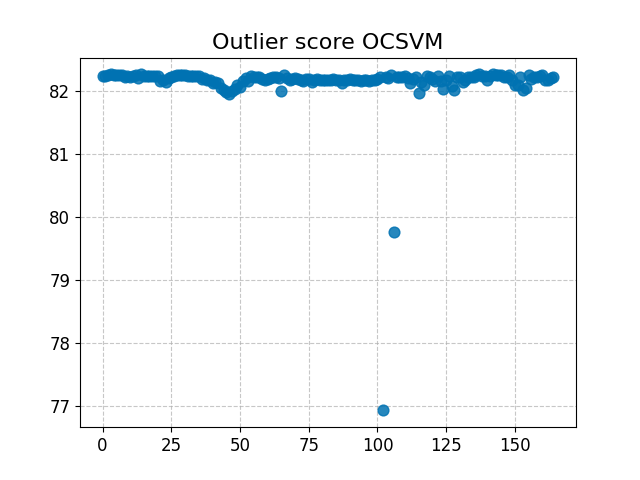
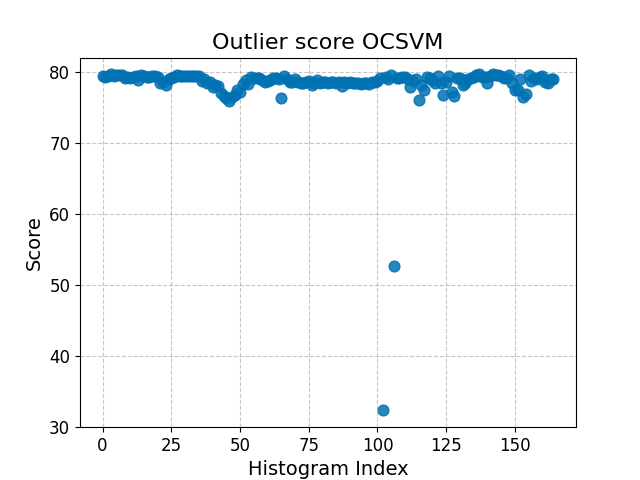
plots, debugs

diff --git a/kNN_approach/outliers_sklearn_knn.py b/kNN_approach/outliers_sklearn_knn.py
@@ -19,7 +19,7 @@ import plotting_styles as style
 #from ready_proj_data import norm_data_2d as norm_data
 #from ready_data import get_artifficial_dataset   # used for testing - call with no params a function to create dataset with 2 fake cols
 
-neigh = NearestNeighbors(n_neighbors=len(norm_data)) 
+neigh = NearestNeighbors(n_neighbors=len(norm_data))
 #neigh = NearestNeighbors(n_neighbors=len(norm_data)) 
 neigh.fit(norm_data)
 
@@ -45,10 +45,12 @@ if __name__ == '__main__':
     style.apply_global_style()
     plt.scatter(range(len(deviations)), deviations, **style.scatter_style)
     #plt.axhline(y=0.4, color='seagreen', linestyle='--', linewidth=1.95)
-    plt.title("Calculated deviations")
+    plt.title(f"Calculated deviations")
     plt.xlabel("Histogram index")
     plt.ylabel("Deviation")
     plt.show()
+    highest_devs = sorted(dev_dict:=enumerate(deviations), key=lambda deviation: deviation[1], reverse=False)[-5:]
+    print(highest_devs[::-1])
     exit()
 
     # following code plots outlier count per k parameter

diff --git a/less-important/OCSVM_outs.py b/less-important/OCSVM_outs.py
@@ -16,19 +16,24 @@ from ready_data import norm_data
 def idxs(iterable):
     return [i for i in range(len(iterable))]
 
-svm = OneClassSVM(gamma="auto").fit(norm_data)
+svm = OneClassSVM().fit(norm_data)
 svm.predict(norm_data)
 out_measure = svm.score_samples(norm_data)
 dec = svm.decision_function(norm_data)
 apply_global_style()
-plt.plot(idxs(dec), dec)
+plt.plot(range(len(dec)), dec)
 plt.title("Decision function")
 plt.show()
 
 plt.title("Outlier score OCSVM")
 plt.scatter(range(len(out_measure)), out_measure, **style.scatter_style)
 style.apply_global_style()
+plt.xlabel("Histogram Index")
+plt.ylabel("Score")
 plt.show()
+print(max(out_measure))
+highest_devs = sorted(dev_dict:=enumerate(out_measure), key=lambda deviation: deviation[1], reverse=True)[-5:]
+print(highest_devs[::-1])
 exit()
 for m in range(len(out_measure)):
     # decided for decision boundary at 80 (not permanent just for testing)
